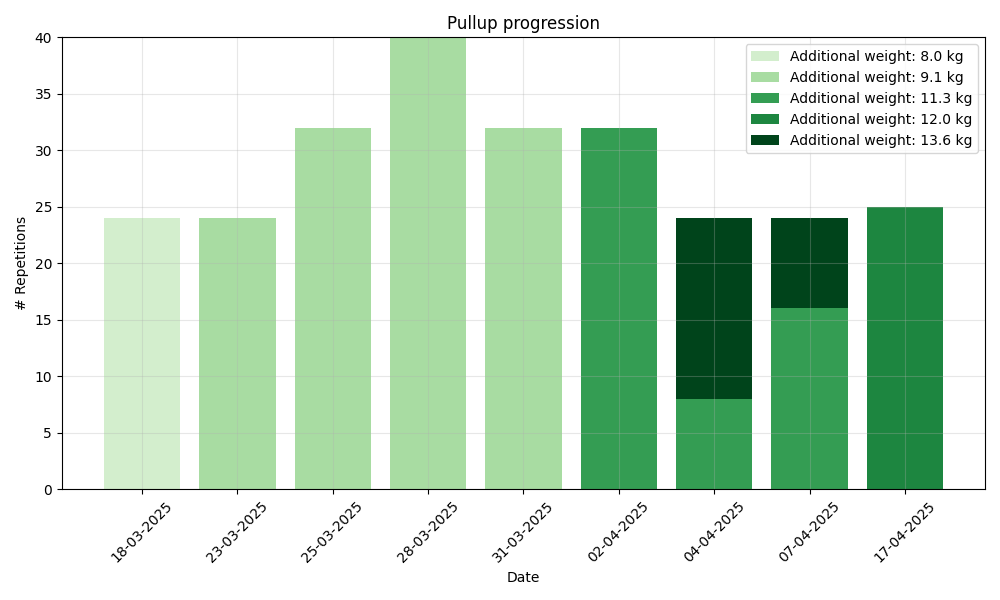
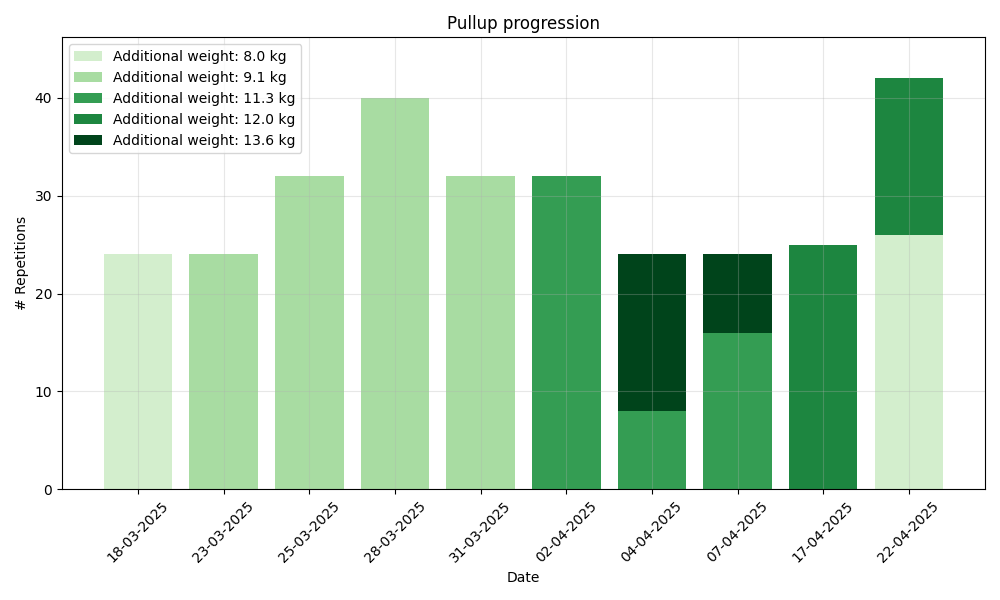
include climbs below project level

diff --git a/apps/intensity.py b/apps/intensity.py
@@ -1,5 +1,3 @@
-# apps/plot_intensity.py
-
 import os
 import json
 import glob
@@ -51,7 +49,8 @@ fb_arr    = []
 cb_arr    = []
 pu_arr    = []
 proj_arr  = []
-dh_arr = []
+dh_arr    = []
+fc_arr    = []  # free_climbs array
 
 total_arr = []
 
@@ -61,25 +60,28 @@ for dt, d, is_out in sessions:
     cb    = br.get("campusboard", 0.0)
     pu    = br.get("pullup",     0.0)
     proj  = br.get("project",    0.0)
-    dh    = br.get("deadhang",   0.0)  # ← new
+    dh    = br.get("deadhang",   0.0)
+    fc    = br.get("free_climbs", 0.0)  # free climbs intensity
     out_v = br.get("outdoor",    0.0)
 
     # if this was an outdoor‐only session, we want zero bars
     if is_out:
-        fb, cb, pu, proj, dh = 0.0, 0.0, 0.0, 0.0, 0.0
+        fb, cb, pu, proj, dh, fc = 0.0, 0.0, 0.0, 0.0, 0.0, 0.0
 
     fb_arr.append(fb)
     cb_arr.append(cb)
     pu_arr.append(pu)
     proj_arr.append(proj)
     dh_arr.append(dh)
-    total_arr.append(fb + cb + pu + proj + dh + out_v)
+    fc_arr.append(fc)
+    total_arr.append(fb + cb + pu + proj + dh + fc + out_v)
 
 fb_arr   = np.array(fb_arr)
 cb_arr   = np.array(cb_arr)
 pu_arr   = np.array(pu_arr)
 proj_arr = np.array(proj_arr)
-dh_arr = np.array(dh_arr)
+dh_arr   = np.array(dh_arr)
+fc_arr   = np.array(fc_arr)
 total_arr= np.array(total_arr)
 
 # Plot:
@@ -87,8 +89,9 @@ colors = {
     "fingerboard": "#e41a1c",
     "campusboard": "#377eb8",
     "pullup":      "#4daf4a",
-    "project":     "#984ea3",
+    "project":     "#9370DB",
     "deadhang":    "#ff7f00",
+    "free_climbs": "#9932CC",
 }
 
 fig, ax = plt.subplots(figsize=(12,7))
@@ -97,14 +100,16 @@ bottom = np.zeros_like(x_all, dtype=float)
 # indoor session's stacked bars
 ax.bar(x_all, fb_arr,   bottom=bottom, color=colors["fingerboard"], label="Fingerboard")
 bottom += fb_arr
-ax.bar(x_all, dh_arr, bottom=bottom, color=colors["deadhang"], label="Deadhang")
+ax.bar(x_all, dh_arr,   bottom=bottom, color=colors["deadhang"],    label="Deadhang")
 bottom += dh_arr
 ax.bar(x_all, cb_arr,   bottom=bottom, color=colors["campusboard"], label="Campusboard")
 bottom += cb_arr
 ax.bar(x_all, pu_arr,   bottom=bottom, color=colors["pullup"],     label="Pullup")
 bottom += pu_arr
-ax.bar(x_all, proj_arr, bottom=bottom, color=colors["project"],    label="Project")
+ax.bar(x_all, proj_arr, bottom=bottom, color=colors["project"],    label="Climbs (max effort)")
 bottom += proj_arr
+ax.bar(x_all, fc_arr,   bottom=bottom, color=colors["free_climbs"],label="Climbs (< max effort)")
+bottom += fc_arr
 
 # continuous total line through all points
 ax.plot(x_all, total_arr,

diff --git a/apps/weekly_intensity.py b/apps/weekly_intensity.py
@@ -47,7 +47,7 @@ for dt, data, is_out in sessions:
     if is_out:
         weekly[week_idx]['outdoor']    += br.get('outdoor',   0.0)
     else:
-        for key in ['fingerboard', 'deadhang', 'campusboard', 'pullup', 'project', 'outdoor']:
+        for key in ['fingerboard', 'deadhang', 'campusboard', 'pullup', 'project', 'outdoor', 'free_climbs']:
             weekly[week_idx][key] += br.get(key, 0.0)
 
 # Sort weeks
@@ -55,7 +55,7 @@ weeks = sorted(weekly.keys())
 x     = np.array(weeks)
 
 # Build arrays per exercise type
-types       = ['fingerboard', 'deadhang', 'campusboard', 'pullup', 'project', 'outdoor']
+types       = ['fingerboard', 'deadhang', 'campusboard', 'pullup', 'project', 'outdoor', 'free_climbs']
 data_arrays = {t: np.array([weekly[w].get(t, 0.0) for w in weeks]) for t in types}
 
 # Total intensity including outdoor-only
@@ -68,14 +68,23 @@ colors = {
     'pullup':      '#186A3B',
     'project':     '#76448A',
     'outdoor':     '#AEB6BF',
-    'deadhang':    '#D35400'
+    'deadhang':    '#D35400',
+    'free_climbs': '#9370DB'
 }
 
 # Plot stacked bars
 fig, ax = plt.subplots(figsize=(12,7))
 bottom = np.zeros_like(x, dtype=float)
 for t in types:
-    ax.bar(x, data_arrays[t], bottom=bottom, color=colors[t], label=t.capitalize())
+    # custom labels for project and free_climbs
+    if t == 'project':
+        lbl = 'Climbs (max effort)'
+    elif t == 'free_climbs':
+        lbl = 'Climbs (< max effort)'
+    else:
+        lbl = t.capitalize()
+
+    ax.bar(x, data_arrays[t], bottom=bottom, color=colors[t], label=lbl)
     bottom += data_arrays[t]
 
 # Continuous total intensity line through all weeks
@@ -83,9 +92,13 @@ ax.plot(x, total_intensity,
         color='black', marker='o', linestyle='-', linewidth=2,
         label='Total Intensity', zorder=10)
 
+# Extend y-axis slightly above the tallest bar
+y_max = max(bottom.max(), total_intensity.max())
+ax.set_ylim(0, y_max * 1.1)
+
 # X-axis formatting
 ax.set_xticks(x)
-ax.set_xlabel("Weeks Since First Workout")
+ax.set_xlabel("# Weeks")
 ax.set_ylabel("Summed Intensity")
 ax.set_title("")  # blank title
 

diff --git a/src/crimpy/intensity.py b/src/crimpy/intensity.py
@@ -53,6 +53,7 @@ class WorkoutIntensityCalculator:
             "pullup": 0.0,
             "project": 0.0,
             "deadhang": 0.0,
+            "free_climbs": 0.0,
         }
         for exercise in self.data.get("exercises", []):
             # Only consider executed exercises with nonzero order.
@@ -69,6 +70,8 @@ class WorkoutIntensityCalculator:
                 breakdown["project"] += self.project_intensity(exercise)
             elif ex_type == "deadhang":
                 breakdown["deadhang"] += self.deadhang_intensity(exercise)
+            elif ex_type == "free_climbs":
+                breakdown["free_climbs"] += self.free_climbs_intensity(exercise)
         breakdown["outdoor"] = self.outdoor_intensity()
         return breakdown
 
@@ -195,7 +198,7 @@ class WorkoutIntensityCalculator:
 
     def project_intensity(self, exercise):
         """
-        For project exercises, we propose:
+        For project exercises, (boulders at max effort)
 
           intensity_set = attempts * log(e - 1 + rest[s]/300s)
         """
@@ -210,6 +213,28 @@ class WorkoutIntensityCalculator:
             intensity_set /= np.log(np.e - 1 + timeoff / 300)
             intensity += intensity_set
         return K_proj * intensity / 10
+
+    def free_climbs_intensity(self, exercise):
+        """
+        For free_climbs exercises: (below project level)
+
+          intensity_set = number_of_climbs
+          total_intensity = K_free * sum(intensity_set)
+
+        We choose K_free so that 1 free climb ≈ 1/5 of 1 project attempt.
+        Since project gives ~0.045 per attempt at rest=0, we set:
+
+          K_free = 0.045
+        """
+        intensity = 0.0
+        K_free = 0.45 / 5
+
+        for s in exercise.get("sets", []):
+            number = s.get("number", 0)
+            intensity += number
+
+        return K_free * intensity / 10
+
 
     def outdoor_intensity(self):
         """

diff --git a/apps/pullups.py b/apps/pullups.py
@@ -101,8 +101,10 @@ ax.set_xlabel("Date")
 ax.set_ylabel("# Repetitions")
 # If pullup sets always use the same edge include that in the title
 ax.set_title("Pullup progression")
+y_max = max(bottom.max(), max(reps_data))
+ax.set_ylim(0, y_max * 1.1)
 plt.grid(alpha=0.3)
-ax.legend()
+ax.legend(loc='upper left')
 plt.tight_layout()
 plt.savefig(os.path.join(os.path.dirname(__file__), "..", "plots", "pullups_progression.png"))
 #plt.show()
